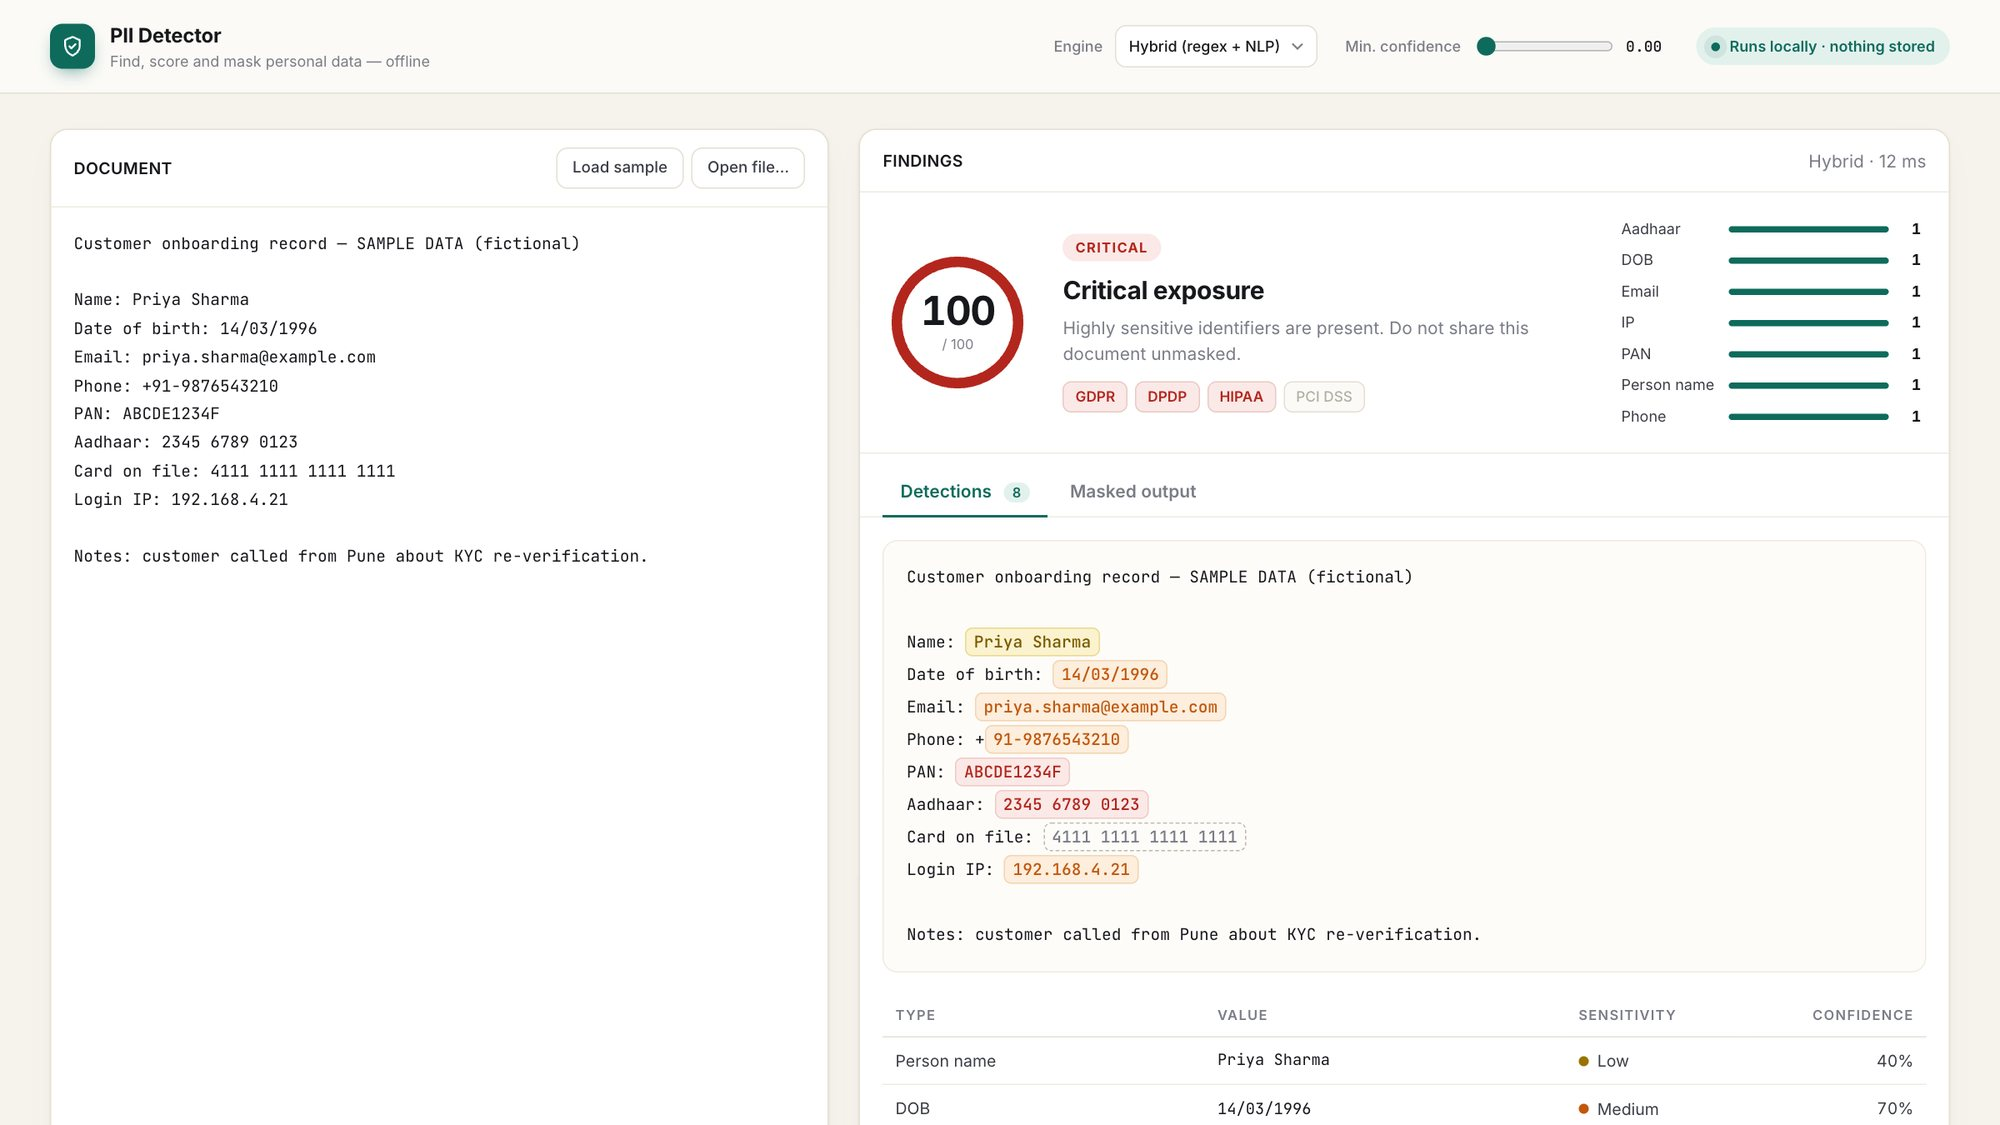
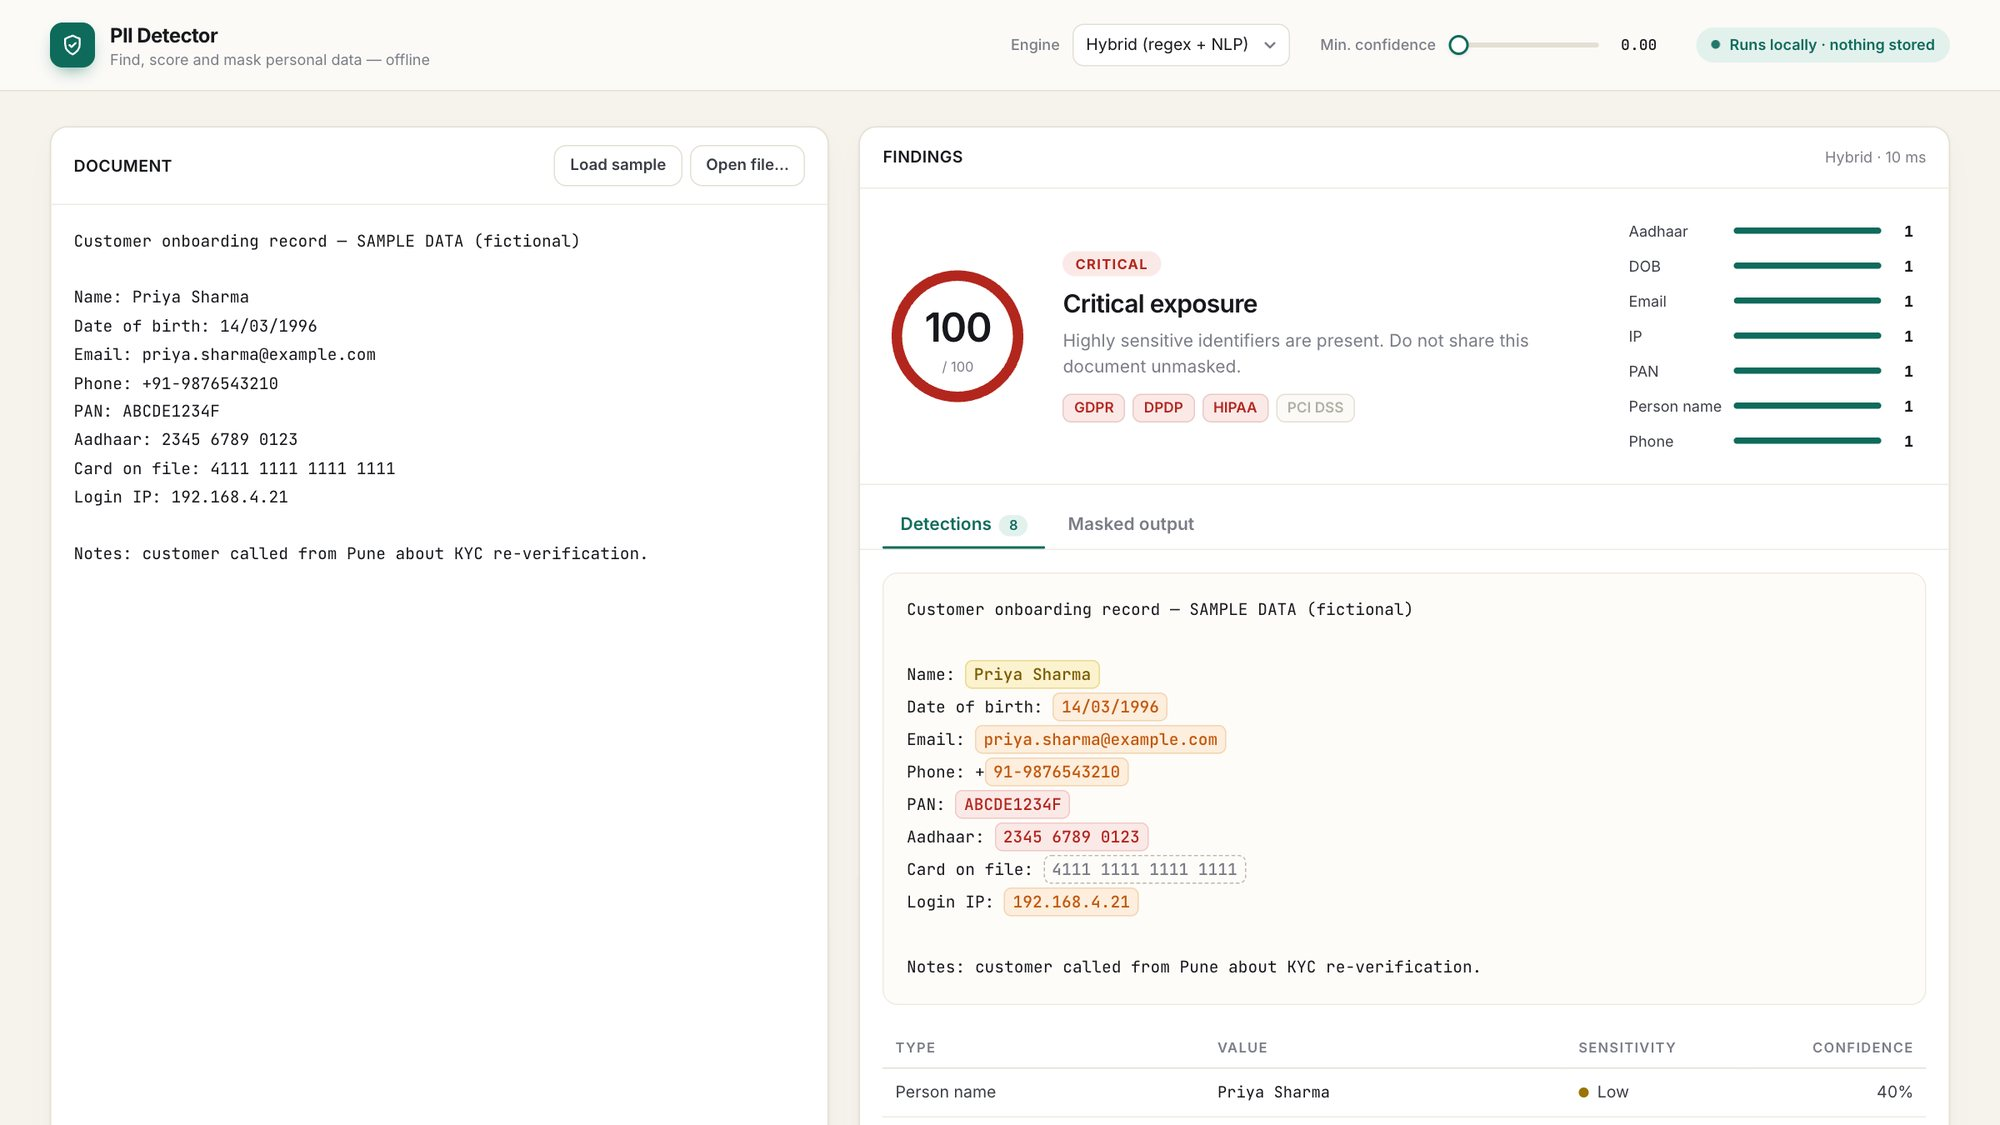
PII Detector: show the new React + TypeScript frontend
Updates the case study stack and copy and refreshes both screenshots from
the rebuilt UI (Flask backend unchanged).

diff --git a/js/data.js b/js/data.js
@@ -305,15 +305,19 @@ window.PROJECTS = [
     "name": "AI PII Detector",
     "title": "Privacy detection & data masking",
     "short": "Finds sensitive information before it becomes a problem. A hybrid regex and spaCy NLP pipeline reads PDF, DOCX, CSV, XLSX and TXT files, scores risk, then masks what it finds — in batch, from the CLI or the web app.",
-    "tags": "Python · Flask · Regex + spaCy",
+    "tags": "Python · Flask · React · TypeScript",
     "blurb": "Finds sensitive information before it becomes a problem. A hybrid regex and spaCy pipeline reads five file formats, scores risk, and masks what it finds.",
     "stack": [
       "PYTHON",
       "FLASK",
-      "REGEX",
+      "REACT 19",
+      "TYPESCRIPT",
+      "VITE",
+      "TAILWIND",
       "SPACY NLP",
+      "REGEX",
       "BATCH / CLI",
-      "TESTING"
+      "PYTEST"
     ],
     "links": [
       {
@@ -338,7 +342,8 @@ window.PROJECTS = [
         "h": "WHAT I BUILT",
         "body": [
           "A hybrid detection pipeline: regex catches the structured identifiers reliably, and an optional spaCy NLP pass picks up names and entities that patterns miss. Results are scored so a reviewer can triage rather than read everything.",
-          "Batch processing and a CLI make it usable over directories of files, and the detection logic is covered by tests — a pipeline that silently stops matching is worse than none."
+          "Batch processing and a CLI make it usable over directories of files, and the detection logic is covered by tests — a pipeline that silently stops matching is worse than none.",
+          "The web app is a React and TypeScript frontend (Tailwind, Base UI, Motion) over the Flask JSON API: a risk gauge, in-place highlights you can filter by type, and masked output that updates as you change the style. It is bundled into Flask's static folder, so the app still runs offline with no Node at runtime."
         ]
       }
     ],
@@ -353,7 +358,7 @@ window.PROJECTS = [
     "gallery": [
       {
         "src": "assets/pii-scan.jpg",
-        "alt": "PII Detector: a sample document with names, dates, email, PAN, Aadhaar and IP highlighted, a critical risk score of 98 and GDPR, DPDP and HIPAA flags",
+        "alt": "PII Detector: a sample document with names, dates, email, phone, PAN, Aadhaar and IP highlighted, a critical risk score of 100 and GDPR, DPDP and HIPAA flags",
         "cap": "A scan of fictional sample data — every identifier highlighted, risk scored, compliance flagged"
       },
       {
